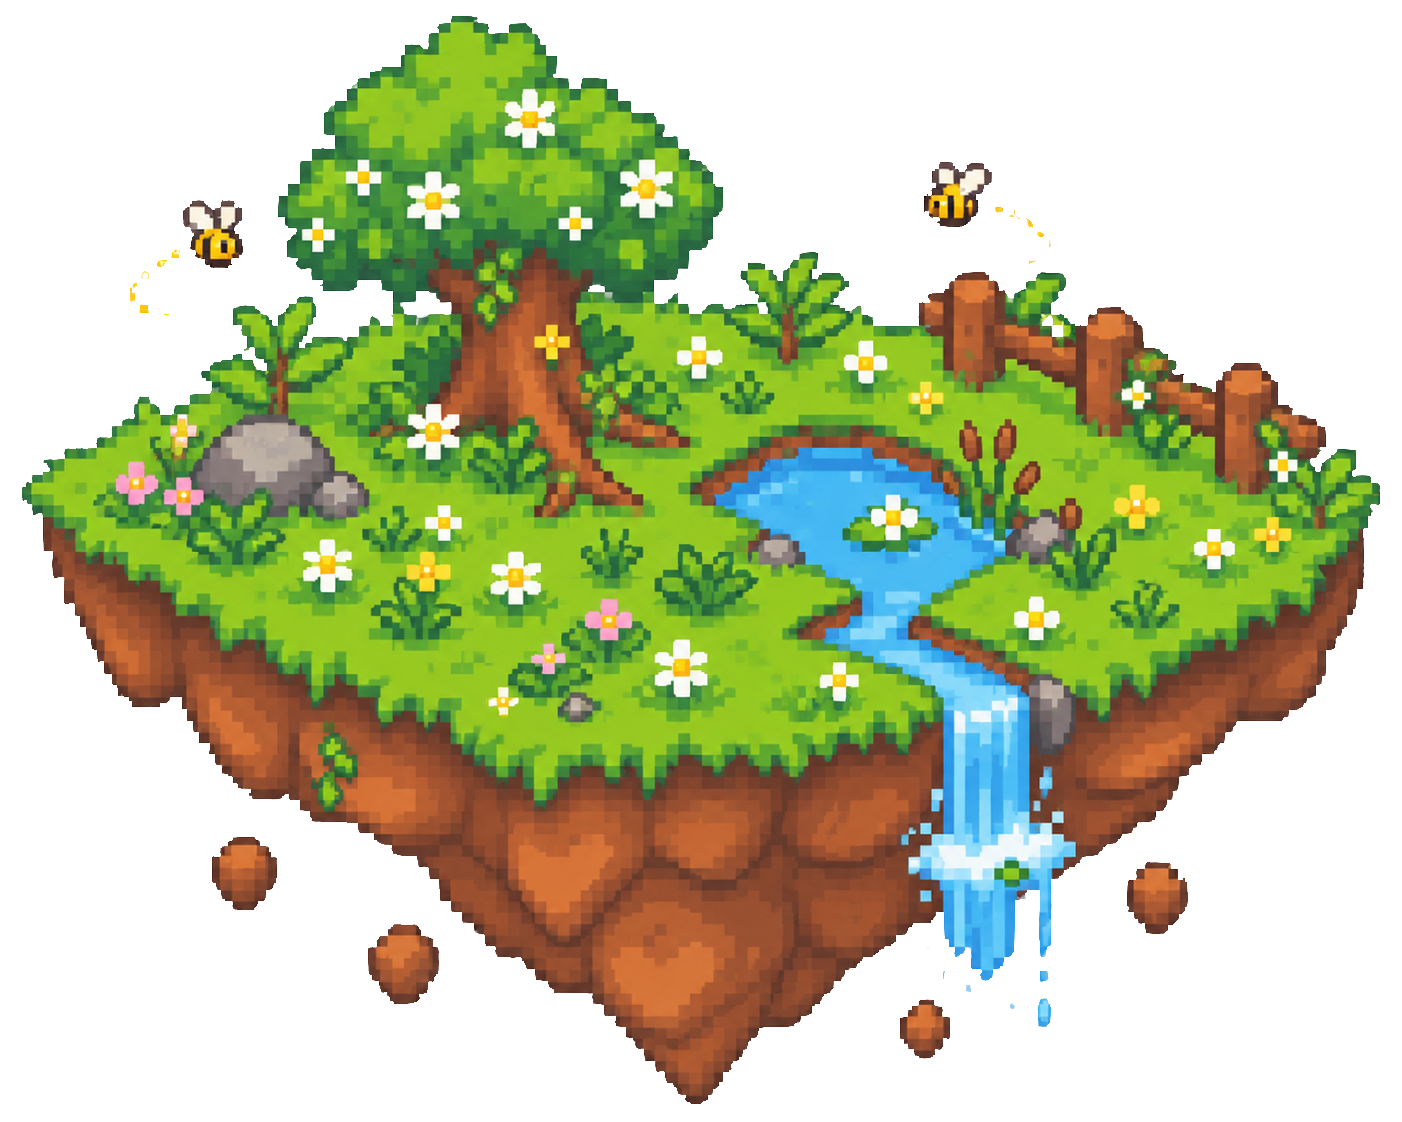
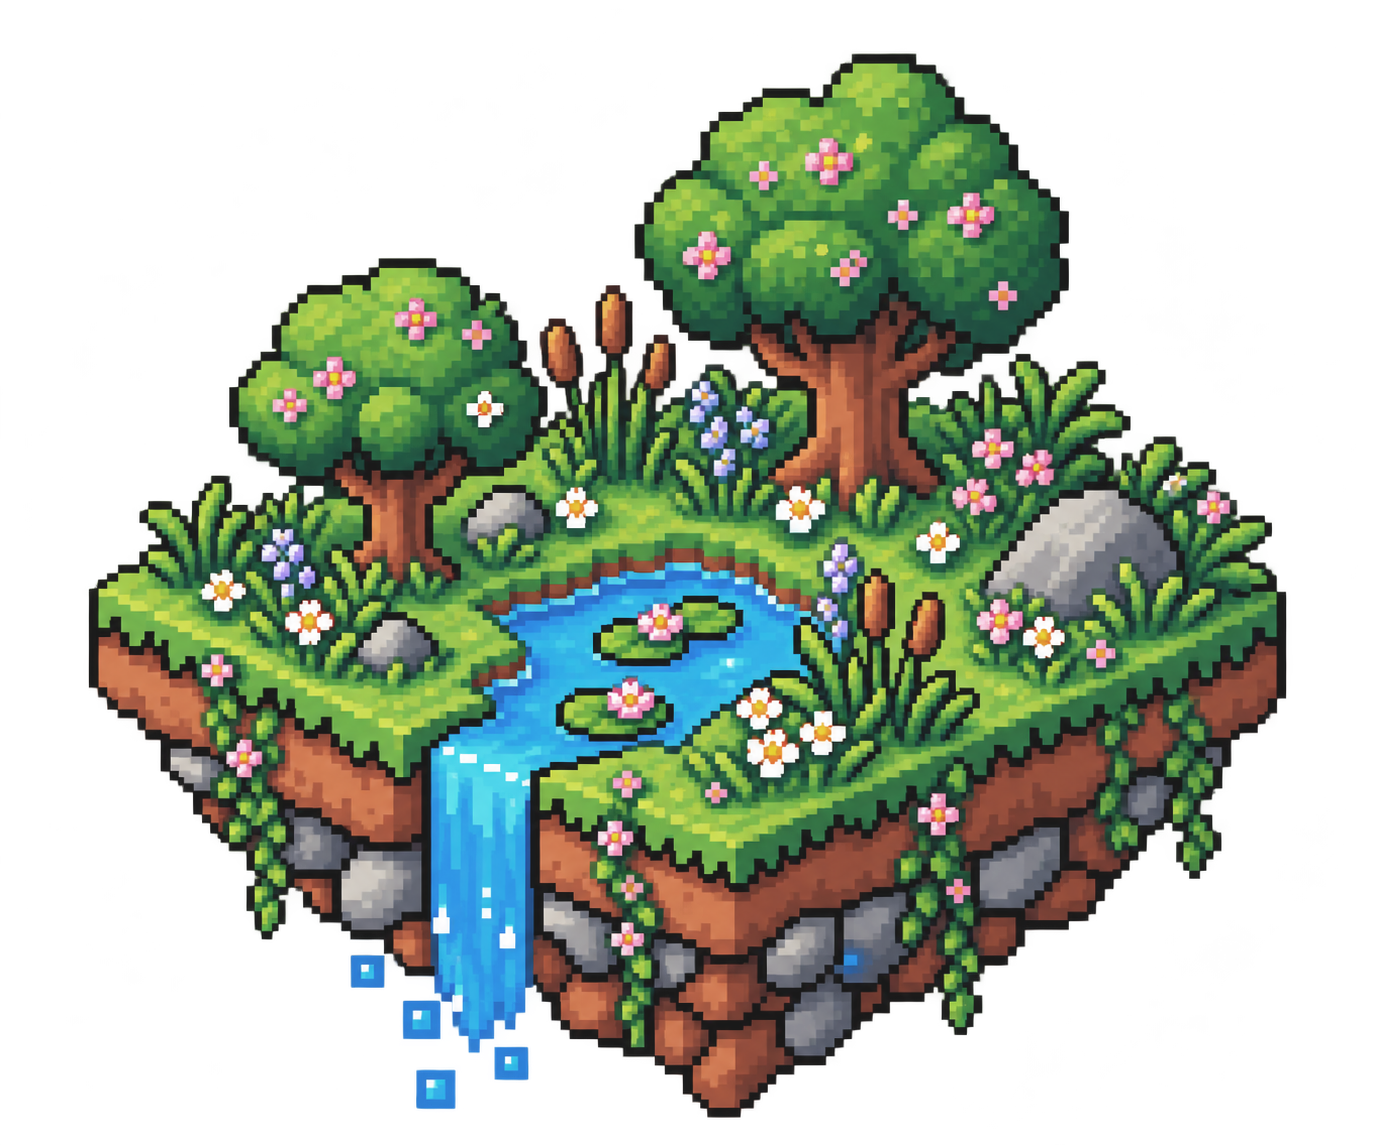
chore: minor bug fixes and polishes

diff --git a/frontend/src/App.jsx b/frontend/src/App.jsx
@@ -1,5 +1,5 @@
-import { BrowserRouter, Routes, Route } from 'react-router-dom';
-import { useEffect } from 'react'
+import { BrowserRouter, Routes, Route, Navigate, useLocation } from 'react-router-dom';
+import { useEffect, useState } from 'react'
 
 import Beedex from './pages/Beedex'
 import Home from './pages/Home'
@@ -7,14 +7,60 @@ import MapView from './pages/MapView'
 import NewPlot from './pages/NewPlot'
 import PlotCarousel from './pages/PlotCarousel'
 import PlotDetail from './pages/PlotDetail'
+import { validateUser } from './api'
 import { playClickSound } from './audio'
 
 import './App.css'
 
+
+function UserGuard({ children }) {
+  const [status, setStatus] = useState('checking')
+
+  useEffect(() => {
+    const uuid = localStorage.getItem('apiary_uuid')
+
+    if (!uuid) {
+      setStatus('invalid')
+      return
+    }
+
+    validateUser()
+      .then(() => {
+        setStatus('valid')
+      })
+      .catch((error) => {
+        if (error.response?.status === 404) {
+          // UUID exists locally but the user no longer exists in DB
+          localStorage.removeItem('apiary_uuid')
+          setStatus('invalid')
+        } else {
+          // Network/server error — don't destroy a potentially valid UUID
+          console.error(error)
+          setStatus('valid')
+        }
+      })
+  }, [])
+
+  if (status === 'checking') {
+    return null
+  }
+
+  if (status === 'invalid') {
+    return <Navigate to="/" replace />
+  }
+
+  return children
+}
+
+
 function App() {
   useEffect(() => {
     const handleClick = (event) => {
-      if (event.target.closest('button, a, select, input[type="submit"], input[type="button"], [role="button"]')) {
+      if (
+        event.target.closest(
+          'button, a, select, input[type="submit"], input[type="button"], [role="button"]'
+        )
+      ) {
         playClickSound()
       }
     }
@@ -23,19 +69,58 @@ function App() {
     return () => document.removeEventListener('click', handleClick)
   }, [])
 
-  return(
-  <BrowserRouter>
-    <Routes>
-      <Route path ="/" element= {<Home/>} />
-      <Route path ="/beedex" element= {<Beedex/>} />
-      <Route path ="/map" element= {<MapView/>} />
-      <Route path ="/plots" element= {<PlotCarousel/>} />
-      <Route path ="/plot/new" element= {<NewPlot/>} />
-      <Route path ="/plot/:plotId" element= {<PlotDetail/>} />
-    </Routes>
-  </BrowserRouter>
-  
-  );
+  return (
+    <BrowserRouter>
+      <Routes>
+        <Route path="/" element={<Home />} />
+
+        <Route
+          path="/beedex"
+          element={
+            <UserGuard>
+              <Beedex />
+            </UserGuard>
+          }
+        />
+
+        <Route
+          path="/map"
+          element={
+            <UserGuard>
+              <MapView />
+            </UserGuard>
+          }
+        />
+
+        <Route
+          path="/plots"
+          element={
+            <UserGuard>
+              <PlotCarousel />
+            </UserGuard>
+          }
+        />
+
+        <Route
+          path="/plot/new"
+          element={
+            <UserGuard>
+              <NewPlot />
+            </UserGuard>
+          }
+        />
+
+        <Route
+          path="/plot/:plotId"
+          element={
+            <UserGuard>
+              <PlotDetail />
+            </UserGuard>
+          }
+        />
+      </Routes>
+    </BrowserRouter>
+  )
 }
 
 export default App

diff --git a/frontend/src/components/PlotCard.jsx b/frontend/src/components/PlotCard.jsx
@@ -2,7 +2,16 @@ import { Link } from "react-router-dom"
 import ProgressBar from './ProgressBar'
 import { getProgressToNextMilestone, MILESTONE_THRESHOLDS } from '../utils/milestones'
 import seedlingImage from '../assets/seedling.png'
+import gardenImage from '../assets/garden.png'
+import habitatImage from '../assets/habitat.png'
 import sanctuaryImage from '../assets/sanctuary.png'
+
+const milestoneImages = {
+    Seedling: seedlingImage,
+    Garden: gardenImage,
+    Habitat: habitatImage,
+    Sanctuary: sanctuaryImage,
+}
 
 const PlotCard = ({ plot }) => {
     const plotMap = {1:'balcony pot',2:'small garden',3:'large garden',4:'allotment'}
@@ -10,11 +19,7 @@ const PlotCard = ({ plot }) => {
     const currentPoints = Number(plot.points) || 0
     const normalizedMilestone = String(plot.milestone || 'Seedling').trim().toLowerCase()
     const milestone = normalizedMilestone.charAt(0).toUpperCase() + normalizedMilestone.slice(1)
-    const plotImage = milestone === 'Seedling'
-        ? seedlingImage
-        : milestone === 'Sanctuary'
-            ? sanctuaryImage
-            : seedlingImage
+    const plotImage = milestoneImages[milestone] || seedlingImage
     const threshold = MILESTONE_THRESHOLDS[milestone]
     const nextMilestone = Object.keys(MILESTONE_THRESHOLDS).find(m => 
         threshold && MILESTONE_THRESHOLDS[m].lower === threshold.upper

diff --git a/frontend/src/api.js b/frontend/src/api.js
@@ -11,6 +11,13 @@ api.interceptors.request.use((config) => {
   return config
 })
 
+export const validateUser = async () => {
+    const apiaryUuid = localStorage.getItem('apiary_uuid')
+
+    const response = await api.get(`/users/${apiaryUuid}`)
+    return response.data
+}
+
 export const registerUser = async() => {
     const response = await api.post(`/users/register`)
     return response.data

diff --git a/frontend/src/pages/PlotCarousel.css b/frontend/src/pages/PlotCarousel.css
@@ -72,7 +72,6 @@
   justify-content: center;
   text-align: center;
   width: 100%;
-  padding: 2.25rem;
 }
 
 .plot-card-name {
@@ -323,7 +322,10 @@
 
 @media (max-width: 768px) {
 
-
+  .plot-card-name{
+    font-size: 1.2rem;
+  }
+  
   .plot-carousel__arrow {
     display: none;
   }

diff --git a/frontend/src/pages/Beedex.css b/frontend/src/pages/Beedex.css
@@ -115,6 +115,7 @@
   grid-template-columns: repeat(4, minmax(0, 1fr));
   gap: 1rem;
   touch-action: pan-y;
+  margin-bottom: 3rem;
 }
 
 .beedex-carousel__slide {
